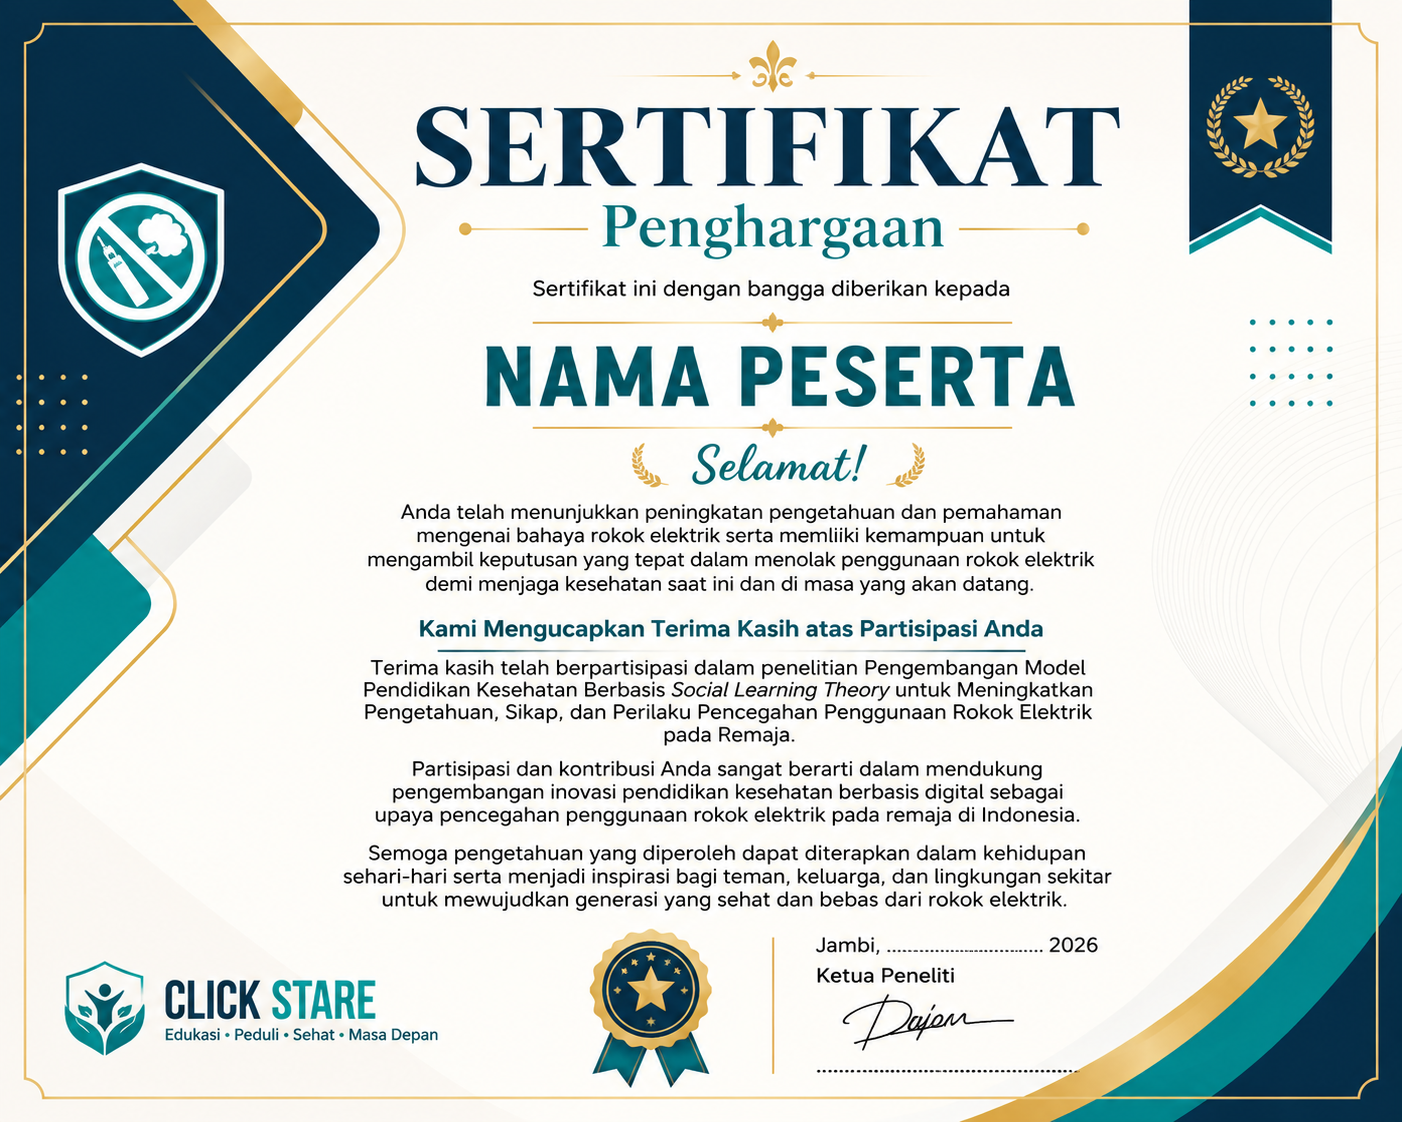
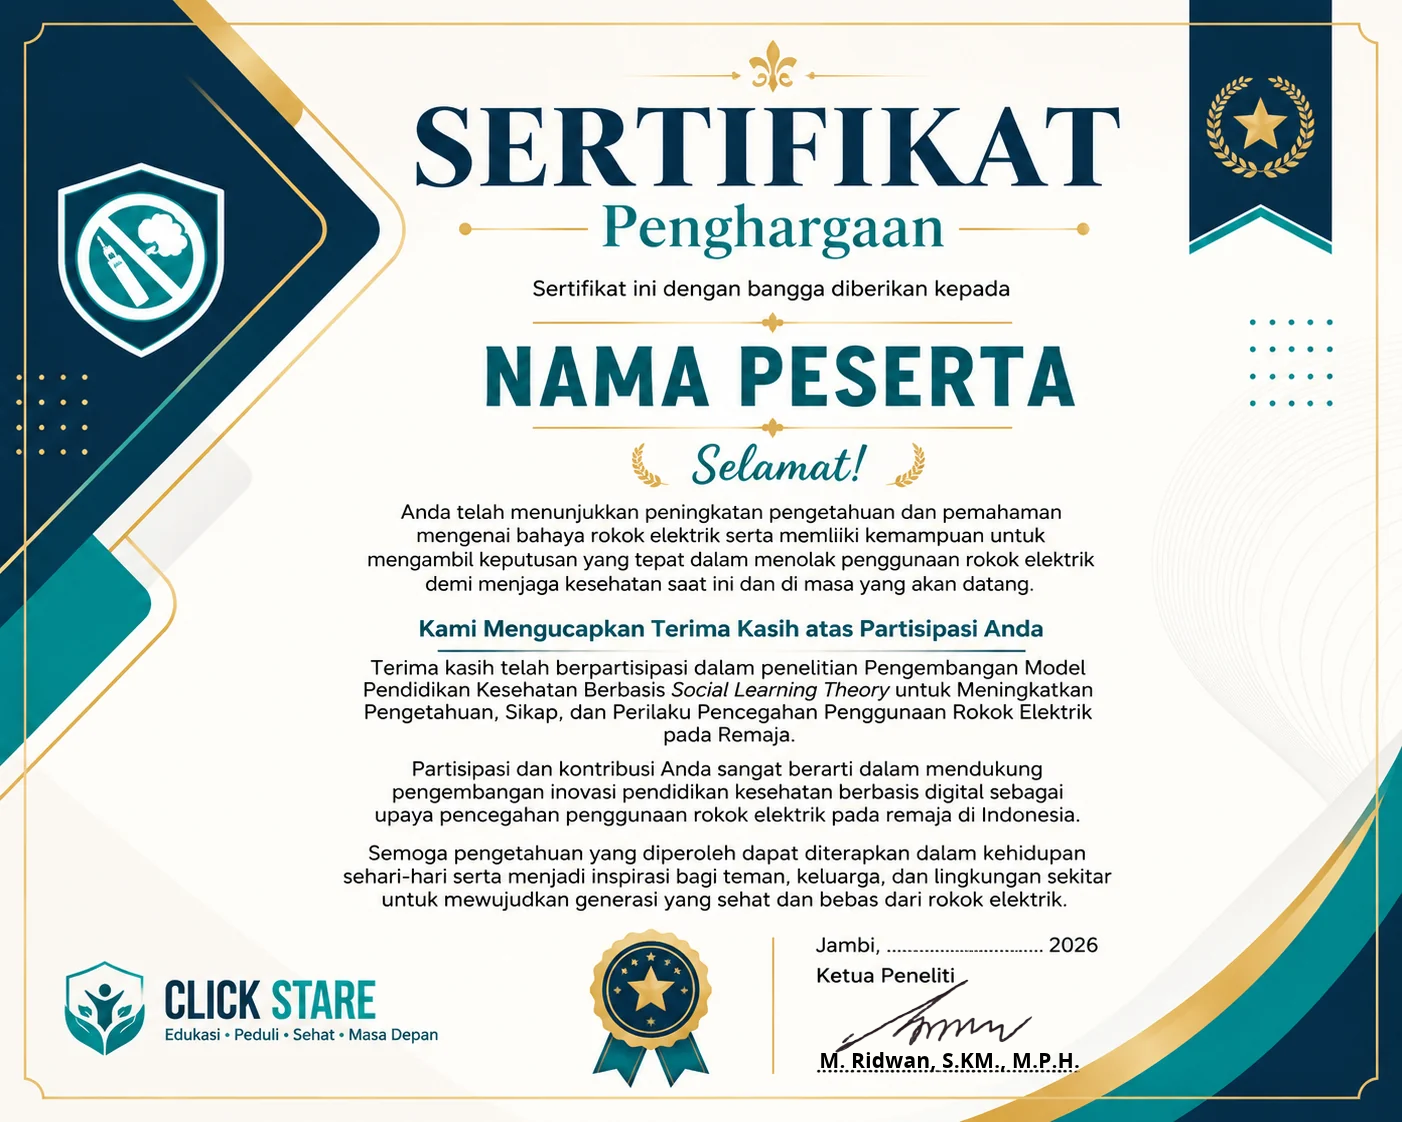
sertifikat dan modul

diff --git a/resources/views/landing.blade.php b/resources/views/landing.blade.php
@@ -21,6 +21,7 @@
 
     $posts = ($posts ?? collect())->take(4);
     $journals = ($journals ?? collect())->take(6);
+    $modules = ($modules ?? collect())->take(4);
 
     $slides = collect($slides ?? [])
         ->map(function ($slide) {
@@ -84,14 +85,31 @@
   <nav class="bg-white/95 border-b backdrop-blur sticky top-[56px] sm:top-[64px] z-30">
     <div class="mx-auto max-w-6xl px-4 py-2 flex items-center gap-3 text-sm font-semibold text-gray-600">
       <a href="#artikel"
-        class="inline-flex items-center gap-2 rounded-full border border-gray-200 px-3 py-1.5 hover:border-red-500 hover:text-red-600 transition">
-        <span class="h-2 w-2 rounded-full bg-red-500"></span>
+        class="inline-flex items-center gap-2 rounded-full border border-red-200 bg-red-50 px-3 py-1.5 text-red-700 hover:border-red-500 hover:bg-red-100 transition"
+        aria-label="Lihat {{ $posts->count() }} artikel">
+        <svg xmlns="http://www.w3.org/2000/svg" viewBox="0 0 24 24" fill="none" stroke="currentColor" stroke-width="1.8" class="h-4 w-4" aria-hidden="true">
+          <path stroke-linecap="round" stroke-linejoin="round" d="M6.75 3.75h7.5l4.5 4.5v12H6.75a2.25 2.25 0 0 1-2.25-2.25V6a2.25 2.25 0 0 1 2.25-2.25Zm7.5 0v4.5h4.5M8.25 12h6.75m-6.75 3.75h6.75" />
+        </svg>
         Artikel
+        <span class="rounded-full bg-red-600 px-2 py-0.5 text-[11px] font-bold leading-none text-white">{{ $posts->count() }}</span>
       </a>
       <a href="#jurnal"
-        class="inline-flex items-center gap-2 rounded-full border border-gray-200 px-3 py-1.5 hover:border-emerald-500 hover:text-emerald-600 transition">
-        <span class="h-2 w-2 rounded-full bg-emerald-500"></span>
+        class="inline-flex items-center gap-2 rounded-full border border-emerald-200 bg-emerald-50 px-3 py-1.5 text-emerald-700 hover:border-emerald-500 hover:bg-emerald-100 transition"
+        aria-label="Lihat {{ $journals->count() }} jurnal">
+        <svg xmlns="http://www.w3.org/2000/svg" viewBox="0 0 24 24" fill="none" stroke="currentColor" stroke-width="1.8" class="h-4 w-4" aria-hidden="true">
+          <path stroke-linecap="round" stroke-linejoin="round" d="M4.5 5.25A2.25 2.25 0 0 1 6.75 3H20v16.5H6.75A2.25 2.25 0 0 0 4.5 21.75v-16.5Zm0 0A2.25 2.25 0 0 0 2.25 3H2v16.5h4.75m3-12h6m-6 3.75h6" />
+        </svg>
         Jurnal
+        <span class="rounded-full bg-emerald-600 px-2 py-0.5 text-[11px] font-bold leading-none text-white">{{ $journals->count() }}</span>
+      </a>
+      <a href="#modul"
+        class="inline-flex items-center gap-2 rounded-full border border-blue-200 bg-blue-50 px-3 py-1.5 text-blue-700 hover:border-blue-500 hover:bg-blue-100 transition"
+        aria-label="Lihat {{ $modules->count() }} modul pembelajaran">
+        <svg xmlns="http://www.w3.org/2000/svg" viewBox="0 0 24 24" fill="none" stroke="currentColor" stroke-width="1.8" class="h-4 w-4" aria-hidden="true">
+          <path stroke-linecap="round" stroke-linejoin="round" d="M4.5 5.25A2.25 2.25 0 0 1 6.75 3H20v16.5H6.75A2.25 2.25 0 0 0 4.5 21.75v-16.5Zm0 0A2.25 2.25 0 0 0 2.25 3H2v16.5h4.75" />
+        </svg>
+        Modul
+        <span class="rounded-full bg-blue-600 px-2 py-0.5 text-[11px] font-bold leading-none text-white">{{ $modules->count() }}</span>
       </a>
     </div>
   </nav>
@@ -270,6 +288,42 @@
     </div>
   </section>
 
+  {{-- MODUL PEMBELAJARAN --}}
+  <section id="modul" class="bg-slate-50 border-t">
+    <div class="mx-auto max-w-6xl px-4 py-12">
+      <div class="flex items-center gap-3">
+        <span class="px-3 py-1 text-xs font-semibold uppercase tracking-wide text-blue-700 bg-blue-100 rounded-full">Modul</span>
+        <h2 class="text-2xl font-bold text-gray-900">Modul Pembelajaran</h2>
+      </div>
+      <p class="mt-2 text-sm text-gray-600">Baca atau unduh modul pembelajaran dalam format PDF.</p>
+
+      <div class="mt-8 grid gap-6 sm:grid-cols-2 lg:grid-cols-3">
+        @forelse($modules as $module)
+          @php($moduleUrl = Storage::url($module->file_path))
+          <article class="group flex h-full flex-col overflow-hidden rounded-2xl border border-slate-200 bg-white shadow-sm transition duration-200 hover:-translate-y-1 hover:shadow-lg">
+            <div class="relative h-48 overflow-hidden bg-slate-100">
+              <iframe src="{{ $moduleUrl }}#zoom=page-width" class="absolute inset-0 h-full w-full border-0"
+                title="Pratinjau {{ $module->judul }}" loading="lazy"></iframe>
+              <span class="absolute left-3 top-3 rounded-full bg-blue-600 px-3 py-1 text-[11px] font-bold uppercase tracking-wide text-white shadow">Modul PDF</span>
+            </div>
+            <div class="flex flex-1 flex-col p-5">
+              <p class="text-xs font-medium text-gray-500">Diperbarui {{ $module->updated_at?->diffForHumans() }}</p>
+              <h3 class="mt-2 min-h-14 text-lg font-semibold leading-7 text-gray-900">{{ $module->judul }}</h3>
+              <a href="{{ $moduleUrl }}" target="_blank" rel="noopener"
+                class="mt-auto pt-5 inline-flex min-h-10 items-center justify-center gap-2 rounded-lg bg-blue-600 px-4 py-2 text-sm font-semibold text-white transition hover:bg-blue-700">
+                Buka modul <span aria-hidden="true">→</span>
+              </a>
+            </div>
+          </article>
+        @empty
+          <div class="sm:col-span-2 lg:col-span-4 rounded-2xl border bg-white p-8 text-center text-gray-500">
+            Belum ada modul pembelajaran tersedia.
+          </div>
+        @endforelse
+      </div>
+    </div>
+  </section>
+
   {{-- JURNAL TERKAIT --}}
   <section id="jurnal" class="mx-auto max-w-6xl px-4 py-12">
     <div class="flex items-center justify-between flex-wrap gap-4">
@@ -291,24 +345,21 @@
 
     <div class="mt-8 grid gap-6 sm:grid-cols-2 lg:grid-cols-3">
       @forelse($journals ?? collect() as $journal)
-        <article class="flex flex-col rounded-2xl border bg-white shadow-sm overflow-hidden">
-          <div class="relative h-44 bg-slate-100">
-            <iframe src="{{ Storage::url($journal->file_path) }}#zoom=page-width" class="absolute inset-0 h-full w-full"
+        @php($journalUrl = Storage::url($journal->file_path))
+        <article class="group flex h-full flex-col overflow-hidden rounded-2xl border border-slate-200 bg-white shadow-sm transition duration-200 hover:-translate-y-1 hover:shadow-lg">
+          <div class="relative h-48 overflow-hidden bg-slate-100">
+            <iframe src="{{ $journalUrl }}#zoom=page-width" class="absolute inset-0 h-full w-full border-0"
               title="Preview {{ $journal->judul }}" loading="lazy"></iframe>
+            <span class="absolute left-3 top-3 rounded-full bg-emerald-600 px-3 py-1 text-[11px] font-bold uppercase tracking-wide text-white shadow">Jurnal PDF</span>
           </div>
-          <div class="flex flex-1 flex-col p-5 space-y-3">
-            <h3 class="text-lg font-semibold text-gray-900">{{ $journal->judul }}</h3>
-            @if ($journal->deskripsi)
-              <p class="text-sm text-gray-600">{{ \Illuminate\Support\Str::limit($journal->deskripsi, 130) }}</p>
-            @endif
-            <div class="mt-auto flex items-center justify-between pt-2 text-xs text-gray-500">
-              <span>Diperbarui {{ $journal->updated_at?->diffForHumans() }}</span>
-              <a href="{{ Storage::url($journal->file_path) }}"
-                class="inline-flex items-center gap-1 rounded-full bg-emerald-600 px-3 py-1.5 text-white text-xs font-semibold hover:bg-emerald-700"
-                target="_blank" rel="noopener">
-                Unduh
-              </a>
-            </div>
+          <div class="flex flex-1 flex-col p-5">
+            <p class="text-xs font-medium text-gray-500">Diperbarui {{ $journal->updated_at?->diffForHumans() }}</p>
+            <h3 class="mt-2 min-h-14 text-lg font-semibold leading-7 text-gray-900">{{ $journal->judul }}</h3>
+            <a href="{{ $journalUrl }}"
+              class="mt-auto pt-5 inline-flex min-h-10 items-center justify-center gap-2 rounded-lg bg-emerald-600 px-4 py-2 text-sm font-semibold text-white transition hover:bg-emerald-700"
+              target="_blank" rel="noopener">
+              Buka jurnal <span aria-hidden="true">→</span>
+            </a>
           </div>
         </article>
       @empty

diff --git a/app/Filament/Resources/Modules/Tables/ModulesTable.php b/app/Filament/Resources/Modules/Tables/ModulesTable.php
@@ -1,0 +1,42 @@
+<?php
+
+namespace App\Filament\Resources\Modules\Tables;
+
+use App\Models\Module;
+use Filament\Actions\BulkActionGroup;
+use Filament\Actions\DeleteAction;
+use Filament\Actions\DeleteBulkAction;
+use Filament\Actions\EditAction;
+use Filament\Tables\Columns\TextColumn;
+use Filament\Tables\Table;
+use Illuminate\Support\Facades\Storage;
+
+class ModulesTable
+{
+    public static function configure(Table $table): Table
+    {
+        return $table
+            ->columns([
+                TextColumn::make('judul')
+                    ->label('Judul')
+                    ->searchable()
+                    ->wrap(),
+                TextColumn::make('file_path')
+                    ->label('File PDF')
+                    ->formatStateUsing(fn (?string $state) => $state ? basename($state) : '—')
+                    ->url(fn (Module $record) => Storage::url($record->file_path), shouldOpenInNewTab: true),
+                TextColumn::make('created_at')
+                    ->label('Dibuat')
+                    ->since(),
+            ])
+            ->recordActions([
+                EditAction::make()->label('Ubah'),
+                DeleteAction::make()->label('Hapus'),
+            ])
+            ->toolbarActions([
+                BulkActionGroup::make([
+                    DeleteBulkAction::make()->label('Hapus yang dipilih'),
+                ]),
+            ]);
+    }
+}

diff --git a/app/Filament/Resources/Modules/ModuleResource.php b/app/Filament/Resources/Modules/ModuleResource.php
@@ -1,0 +1,42 @@
+<?php
+
+namespace App\Filament\Resources\Modules;
+
+use App\Filament\Resources\Modules\Pages\ListModules;
+use App\Filament\Resources\Modules\Schemas\ModuleForm;
+use App\Filament\Resources\Modules\Tables\ModulesTable;
+use App\Models\Module;
+use BackedEnum;
+use Filament\Resources\Resource;
+use Filament\Schemas\Schema;
+use Filament\Support\Icons\Heroicon;
+use Filament\Tables\Table;
+
+class ModuleResource extends Resource
+{
+    protected static ?string $model = Module::class;
+
+    protected static string|BackedEnum|null $navigationIcon = Heroicon::OutlinedBookOpen;
+    protected static ?string $navigationLabel = 'Modul';
+    protected static ?string $modelLabel = 'Modul';
+    protected static ?string $pluralModelLabel = 'Modul';
+    protected static ?int $navigationSort = 56;
+    protected static ?string $recordTitleAttribute = 'judul';
+
+    public static function form(Schema $schema): Schema
+    {
+        return ModuleForm::configure($schema);
+    }
+
+    public static function table(Table $table): Table
+    {
+        return ModulesTable::configure($table);
+    }
+
+    public static function getPages(): array
+    {
+        return [
+            'index' => ListModules::route('/'),
+        ];
+    }
+}

diff --git a/app/Filament/Resources/Modules/Schemas/ModuleForm.php b/app/Filament/Resources/Modules/Schemas/ModuleForm.php
@@ -1,0 +1,37 @@
+<?php
+
+namespace App\Filament\Resources\Modules\Schemas;
+
+use Filament\Forms\Components\FileUpload;
+use Filament\Forms\Components\Textarea;
+use Filament\Forms\Components\TextInput;
+use Filament\Schemas\Schema;
+
+class ModuleForm
+{
+    public static function configure(Schema $schema): Schema
+    {
+        return $schema->columns(1)->components([
+            TextInput::make('judul')
+                ->label('Judul Modul')
+                ->required()
+                ->maxLength(200),
+
+            Textarea::make('deskripsi')
+                ->label('Deskripsi')
+                ->rows(3),
+
+            FileUpload::make('file_path')
+                ->label('File Modul (PDF)')
+                ->disk('public')
+                ->directory('modules')
+                ->visibility('public')
+                ->acceptedFileTypes(['application/pdf'])
+                ->maxSize(51200)
+                ->required()
+                ->preserveFilenames()
+                ->openable()
+                ->downloadable(),
+        ]);
+    }
+}

diff --git a/routes/web.php b/routes/web.php
@@ -19,6 +19,7 @@ use App\Livewire\Posts\Show as PostShow;
 use App\Models\Journal;
 use App\Models\Post;
 use App\Models\HeroSlide;
+use App\Models\Module;
 use Illuminate\Support\Facades\Auth;
 use Illuminate\Support\Facades\Route;
 // use App\Livewire\Admin\Dashboard as AdminDashboard;
@@ -36,6 +37,11 @@ Route::get('/', function () {
         ->take(6)
         ->get();
 
+    $modules = Module::query()
+        ->latest('updated_at')
+        ->take(4)
+        ->get();
+
     $slides = HeroSlide::query()
         ->where('is_active', true)
         ->orderBy('sort_order')
@@ -45,6 +51,7 @@ Route::get('/', function () {
     return view('landing', [
         'posts' => $posts,
         'journals' => $journals,
+        'modules' => $modules,
         'slides' => $slides,
     ]);
 })->name('landing');

diff --git a/database/migrations/2026_11_16_000001_create_modules_table.php b/database/migrations/2026_11_16_000001_create_modules_table.php
@@ -1,0 +1,24 @@
+<?php
+
+use Illuminate\Database\Migrations\Migration;
+use Illuminate\Database\Schema\Blueprint;
+use Illuminate\Support\Facades\Schema;
+
+return new class extends Migration
+{
+    public function up(): void
+    {
+        Schema::create('modules', function (Blueprint $table) {
+            $table->id();
+            $table->string('judul');
+            $table->text('deskripsi')->nullable();
+            $table->string('file_path');
+            $table->timestamps();
+        });
+    }
+
+    public function down(): void
+    {
+        Schema::dropIfExists('modules');
+    }
+};

diff --git a/app/Filament/Resources/Modules/Pages/ListModules.php b/app/Filament/Resources/Modules/Pages/ListModules.php
@@ -1,0 +1,17 @@
+<?php
+
+namespace App\Filament\Resources\Modules\Pages;
+
+use App\Filament\Resources\Modules\ModuleResource;
+use Filament\Actions\CreateAction;
+use Filament\Resources\Pages\ListRecords;
+
+class ListModules extends ListRecords
+{
+    protected static string $resource = ModuleResource::class;
+
+    protected function getHeaderActions(): array
+    {
+        return [CreateAction::make()->label('Tambah Modul')];
+    }
+}

diff --git a/app/Models/Module.php b/app/Models/Module.php
@@ -1,0 +1,14 @@
+<?php
+
+namespace App\Models;
+
+use Illuminate\Database\Eloquent\Model;
+
+class Module extends Model
+{
+    protected $fillable = [
+        'judul',
+        'deskripsi',
+        'file_path',
+    ];
+}
